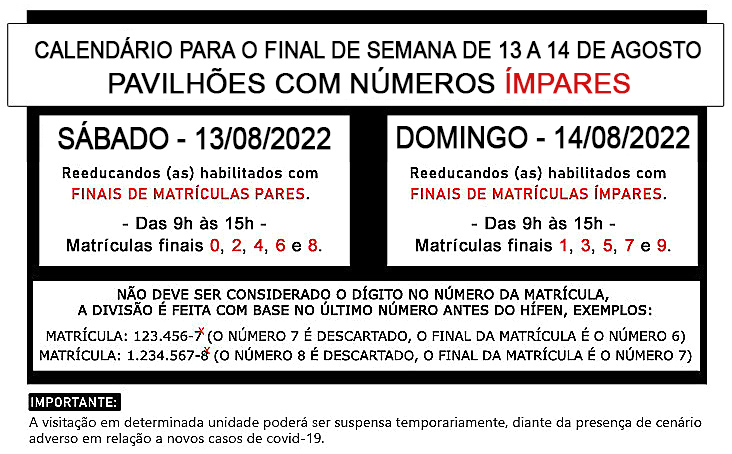
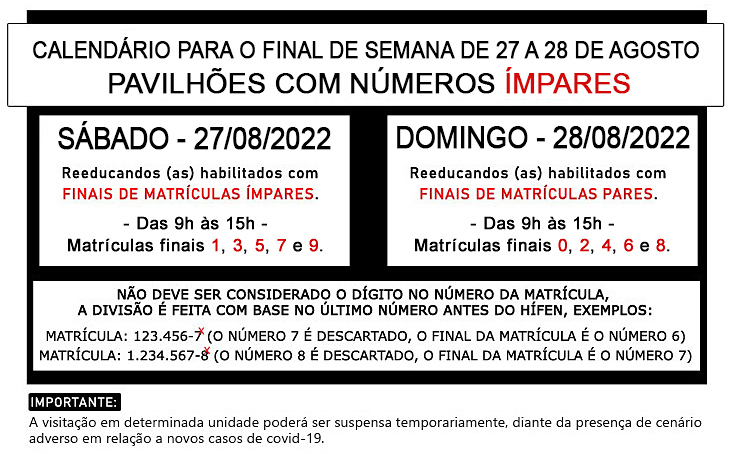
calendario 24-08-2022

diff --git a/calendario.html b/calendario.html
@@ -30,7 +30,7 @@
       <section>
         <h2>Calendário de Visitação</h2>
         <img src="imagens/calendario.jpg" alt="Calendário de Visitação">
-        <p style="text-align: center;">Atualizado dia 10/08/2022</p>
+        <p style="text-align: center;">Atualizado dia 24/08/2022</p>
       </section>
     </main>
 </body>
